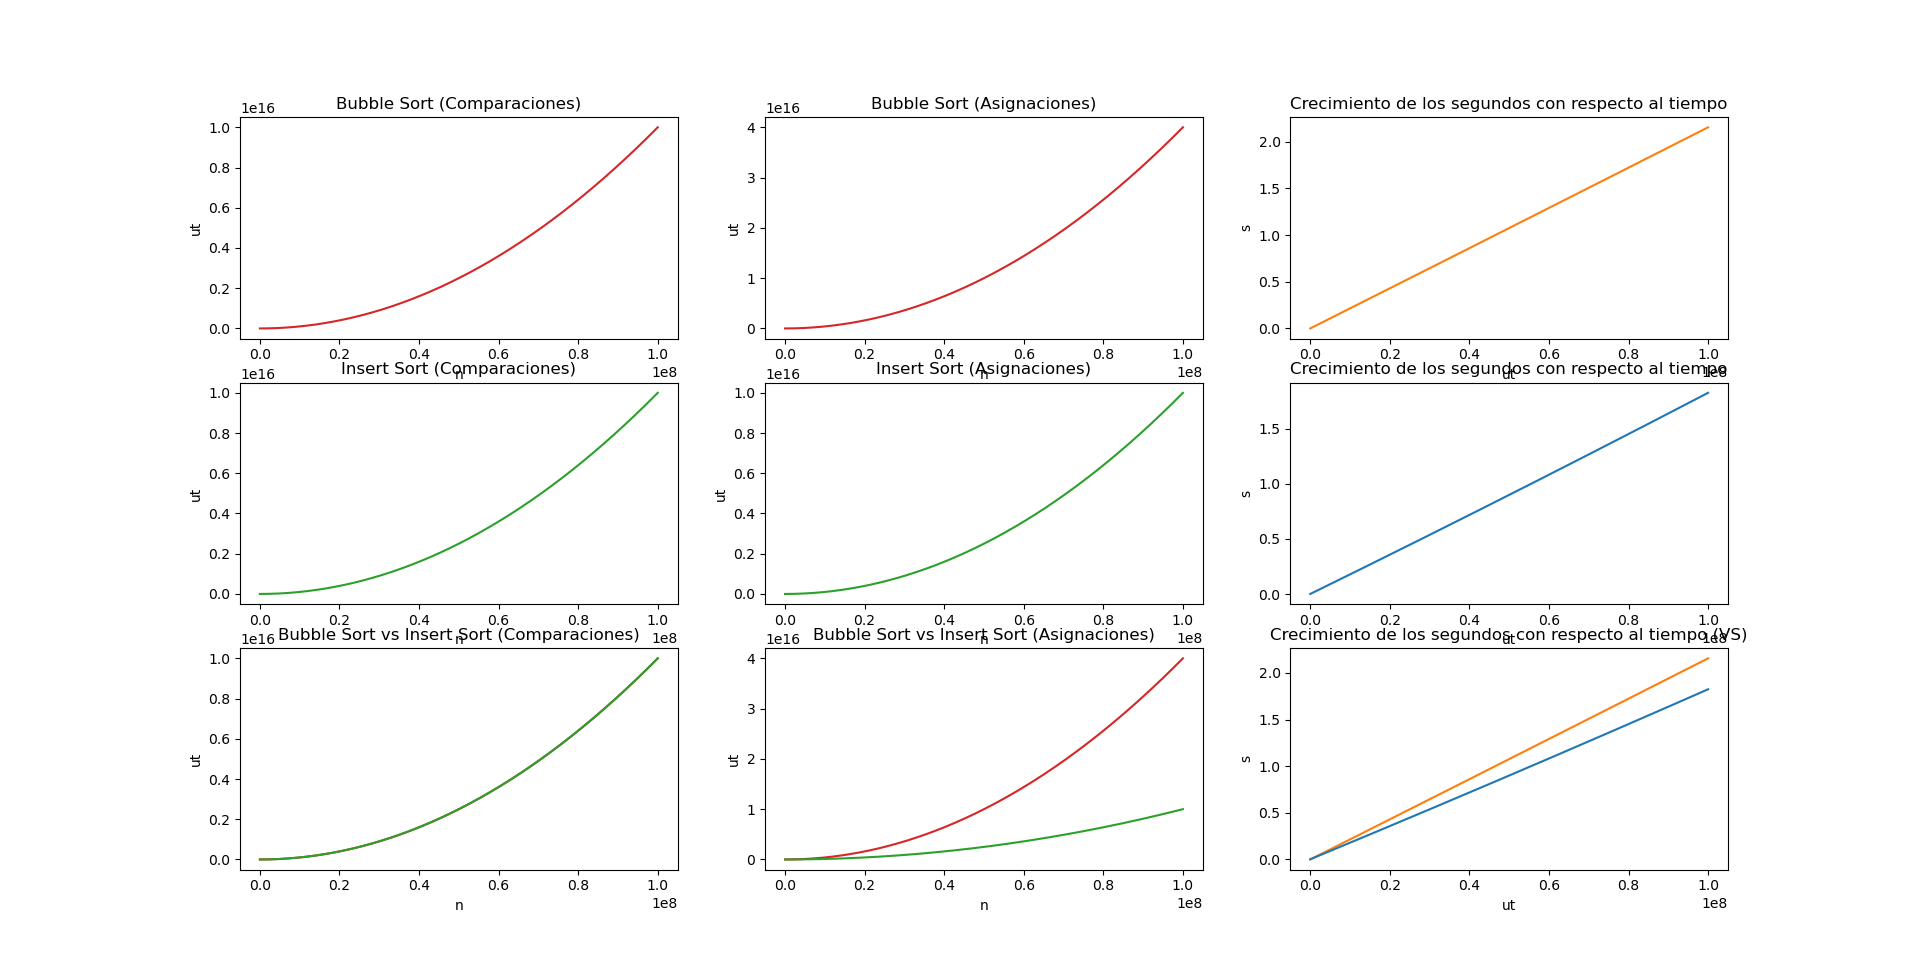
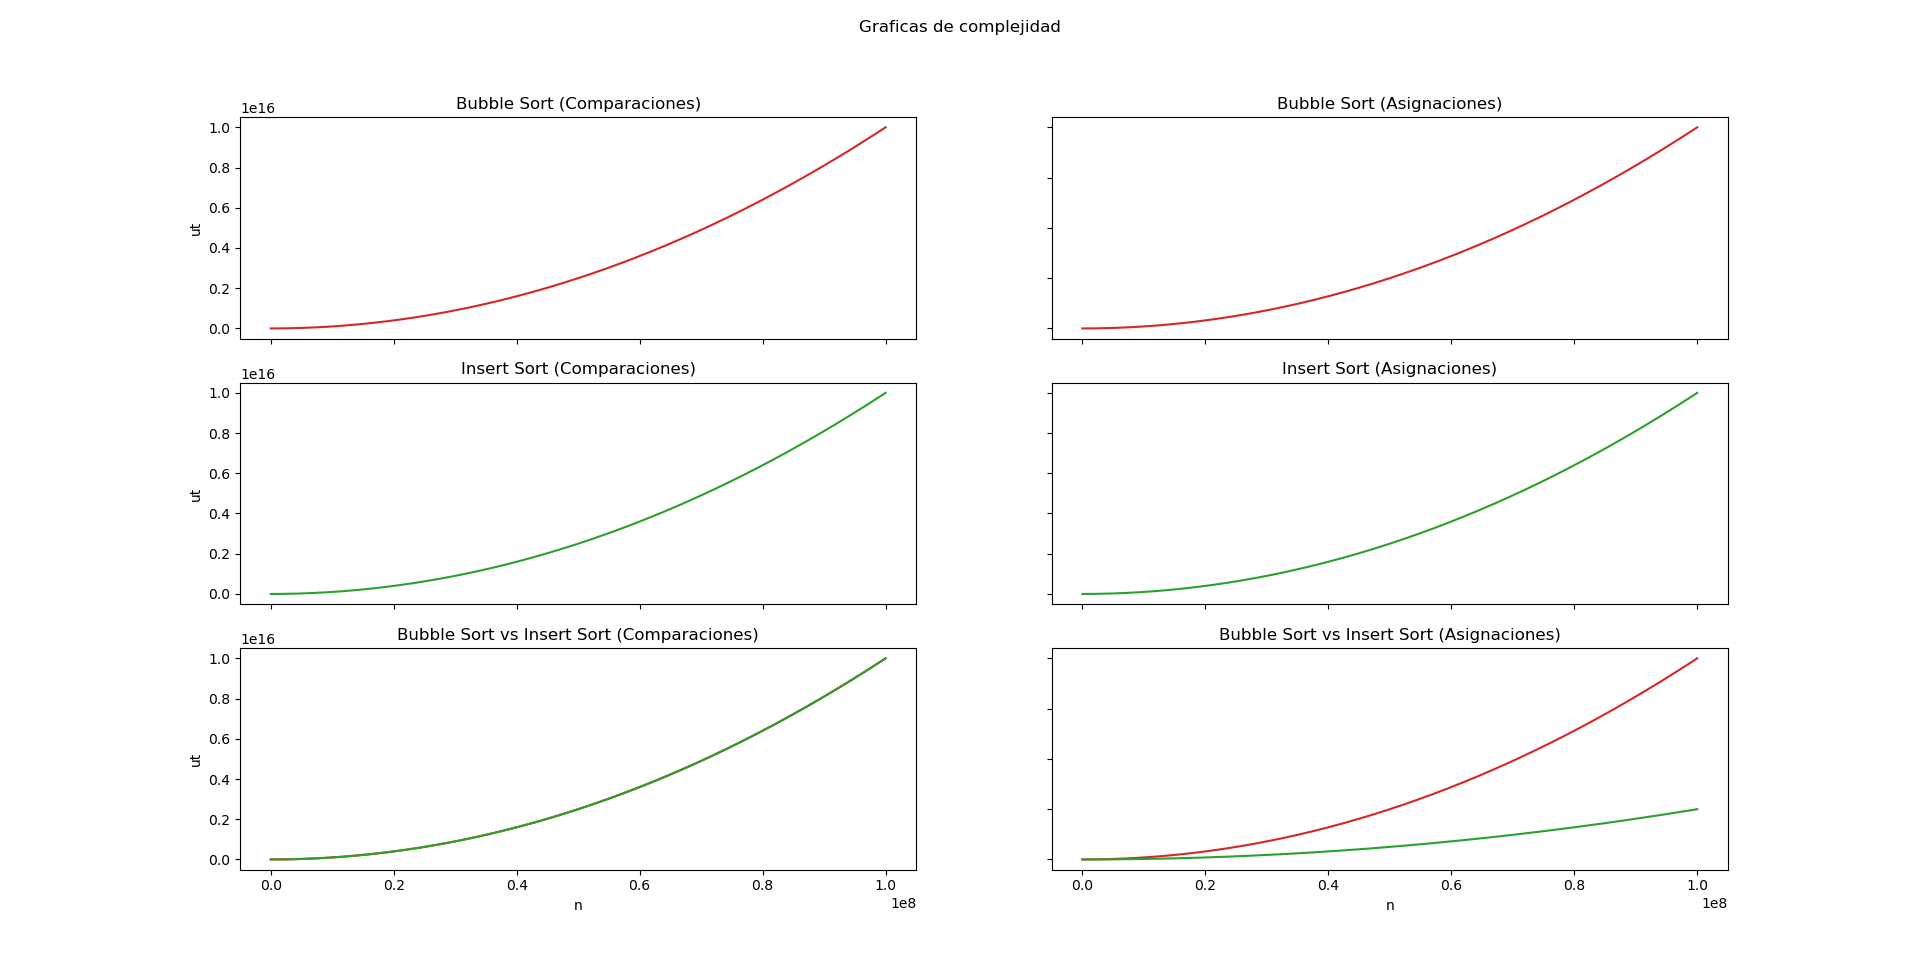
A super upgraded version in comparission to the last one

diff --git a/E1/main.py b/E1/main.py
@@ -5,14 +5,47 @@ import matplotlib.pyplot as plt
 
 from linearAlgebra import MatVector
 
-if __name__ == '__main__':
-    print('\nut: Unidades de Tiempo\n')
-    (w01, w11, w21) = bubbleSortTest.bubbleSortTest()
-    (w02, w12, w22) = insertSortTest.insertSortTest()
+def times():
+    mode = input('\nIngrese el modo de generacion del arreglo:\na: aleatorio\nc: creciente\nd: decreciente\n\n')
 
+    (w01, w11) = bubbleSortTest.bubbleSortTest(mode)
+    (w02, w12) = insertSortTest.insertSortTest(mode)
+
+    xAxis = MatVector(list(range(0, 10 ** 18, 10 ** 12)))
+
+    _, (ax1, ax2, ax3) = plt.subplots(1, 3)
+
+    yAxis02 = xAxis.scale(w11).addScalar(w01)
+    ax1.plot(xAxis.data, yAxis02.data, 'tab:orange')
+    ax1.set_title('Bubble Sort')
+
+    yAxis12 = xAxis.scale(w12).addScalar(w02)
+    ax2.plot(xAxis.data, yAxis12.data, 'tab:blue')
+    ax2.set_title('Insert Sort')
+
+    ax3.plot(xAxis.data, yAxis02.data, 'tab:orange', xAxis.data, yAxis12.data, 'tab:blue')
+    ax3.set_title('Bubble Sort vs Insert Sort')
+
+    ax1.set(xlabel = 'ut', ylabel = 's')
+    ax2.set(xlabel = 'ut')
+    ax3.set(xlabel = 'ut')
+
+    t = 'Crecimiento de los segundos con respecto al tiempo para: '
+    if mode == 'a':
+        t = t + 'Arreglo Aleatorio'
+    elif mode == 'c':
+        t = t + 'Arreglo Creciente'
+    else:
+        t = t + 'Arreglo Decreciente'
+
+    plt.suptitle(t)
+    plt.show()
+
+def complexity():
     xAxis = MatVector(list(range(0, 100000001, 100)))
 
-    fig, axs = plt.subplots(3, 3)
+    _, axs = plt.subplots(3, 2)
+
     yAxis00 = (xAxis ** 2).addScalar(2)
     axs[0][0].plot(xAxis.data, yAxis00.data, 'tab:red')
     axs[0][0].set_title('Bubble Sort (Comparaciones)')
@@ -20,10 +53,6 @@ if __name__ == '__main__':
     yAxis01 = (xAxis ** 2).scale(4).addScalar(4)
     axs[0][1].plot(xAxis.data, yAxis01.data, 'tab:red')
     axs[0][1].set_title('Bubble Sort (Asignaciones)')
-
-    yAxis02 = (xAxis ** 2).scale(w21) + xAxis.scale(w11).addScalar(w01)
-    axs[0][2].plot(xAxis.data, yAxis02.data, 'tab:orange')
-    axs[0][2].set_title('Crecimiento de los segundos con respecto al tiempo')
 
     yAxis10 = (xAxis ** 2) + xAxis.scale(2).addScalar(-2)
     axs[1][0].plot(xAxis.data, yAxis10.data, 'tab:green')
@@ -33,25 +62,27 @@ if __name__ == '__main__':
     axs[1][1].plot(xAxis.data, yAxis11.data, 'tab:green')
     axs[1][1].set_title('Insert Sort (Asignaciones)')
 
-    yAxis12 = (xAxis ** 2).scale(w22) + xAxis.scale(w12).addScalar(w02)
-    axs[1][2].plot(xAxis.data, yAxis12.data, 'tab:blue')
-    axs[1][2].set_title('Crecimiento de los segundos con respecto al tiempo')
-
     axs[2][0].plot(xAxis.data, yAxis00.data, 'tab:red', xAxis.data, yAxis10.data, 'tab:green')
     axs[2][0].set_title('Bubble Sort vs Insert Sort (Comparaciones)')
 
     axs[2][1].plot(xAxis.data, yAxis01.data, 'tab:red', xAxis.data, yAxis11.data, 'tab:green')
     axs[2][1].set_title('Bubble Sort vs Insert Sort (Asignaciones)')
 
-    axs[2][2].plot(xAxis.data, yAxis02.data, 'tab:orange', xAxis.data, yAxis12.data, 'tab:blue')
-    axs[2][2].set_title('Crecimiento de los segundos con respecto al tiempo (VS)')
-
-    i = 1
     for ax in axs.flat:
-        if i % 3 == 0:
-            ax.set(xlabel = 'ut', ylabel = 's')
-        else:
-            ax.set(xlabel = 'n', ylabel = 'ut')
-        i = i + 1
+        ax.set(xlabel = 'n', ylabel = 'ut')
+    for ax in axs.flat:
+        ax.label_outer()
 
+    plt.suptitle('Graficas de complejidad')
     plt.show()
+
+def main():
+    print('\nut: Unidades de Tiempo\n')
+    action = bool(int(input('Ingrese los graficos que mostrara:\n0: graficas de complejidad\n1: analisis de tiempos\n\n')))
+    if action:
+        times()
+    else:
+        complexity()
+
+if __name__ == '__main__':
+    main()

diff --git a/E1/bubbleSortTest.py b/E1/bubbleSortTest.py
@@ -3,7 +3,7 @@ import arrayGen
 import sort
 import linearAlgebra
 
-def bubbleSortTest():
+def bubbleSortTest(mode):
     # ------------------------------------------------------------------------------------------
     X = [] # Eje de Abscisas para la recta de regresion para predecir los tiempos
     Y = [] # Eje de Ordenadas para la recta de regresion para predecir los tiempos
@@ -12,14 +12,14 @@ def bubbleSortTest():
     # ------------------------------------------------------------------------------------------
     # Bubble Sort
     # ------------------------------------------------------------------------------------------
-    print('Insert Sort')
+    print('Bubble Sort')
     for i in [5, 10, 50, 100, 500, 1000, 5000, 10000]:
         start_time = time.time()
 
-        A = arrayGen.genArray(i)
+        A = arrayGen.genArray(i, mode)
         (comp, asig, objc, malloc) = sort.bubbleSort(A)
 
-        end_time  = time.time() - start_time
+        end_time = time.time() - start_time
 
         compUT   = comp << 1     # comp << 1 = comp * 2 (Bitwise)
         asigUT   = asig << 3     # asig << 3 = comp * 8 (Bitwise)
@@ -40,33 +40,27 @@ def bubbleSortTest():
     # ------------------------------------------------------------------------------------------
 
     # ------------------------------------------------------------------------------------------
-    # Prediccion de tiempos mediante recta de regresion cuadratica
+    # Prediccion de tiempos mediante recta de regresion lienal
     # ------------------------------------------------------------------------------------------
     X2 = linearAlgebra.powScaleVector(X, 2)
-    X3 = linearAlgebra.powScaleVector(X, 3)
-    X4 = linearAlgebra.powScaleVector(X, 4)
     XY = linearAlgebra.vecProd(X, Y)
-    X2Y = linearAlgebra.vecProd(X2, Y)
     sumX  = sum(X)
     sumY  = sum(Y)
     sumX2 = sum(X2)
-    sumX3 = sum(X3)
-    sumX4 = sum(X4)
     sumXY = sum(XY)
-    sumX2Y = sum(X2Y)
     n = len(X)
 
-    M = [[n, sumX, sumX2], [sumX, sumX2, sumX3], [sumX2, sumX3, sumX4]]
-    B = [sumY, sumXY, sumX2Y]
+    M = [[n, sumX], [sumX, sumX2]]
+    B = [sumY, sumXY]
 
     V  = linearAlgebra.gauss(M, B)
-    w0, w1, w2 = V[0], V[1], V[2]
+    w0, w1 = V[0], V[1]
     # ------------------------------------------------------------------------------------------
 
     # ------------------------------------------------------------------------------------------
     print('100000, 1000000, ... son muy costosos en la ejecución de este algoritmo')
     print("Para ello mediante el metodo de minimos cuadrados obtuvimos 3 parametros")
-    print("Estos 3 parametros dan forma a la ecuacion cuadratica de tiempos del tipo:")
+    print("Estos 3 parametros dan forma a la ecuacion lineal de tiempos del tipo:")
     print("w0 + w1 * ut + w2 * ut^2\n")
     for n in [100000, 1000000, 10000000, 100000000]:
         comp     = n**2 + 2 * n - 2
@@ -86,9 +80,9 @@ def bubbleSortTest():
         print(f'\tEspacio de memoria alojado:\t{malloc} = {mallocUT}ut')
         print(f'\tTotal:\t\t\t\t\t\t{totalUT}ut') # Total
 
-        print(f'--- {w0 + w1 * totalUT + w2 * totalUT**2} seconds ---\n')
+        print(f'--- {w0 + w1 * totalUT} seconds ---\n')
 
     print("Gracias a ello pudimos predecir todas las ultimas medidas")
 
-    return (w0, w1, w2)
+    return (w0, w1)
     # ------------------------------------------------------------------------------------------

diff --git a/E1/insertSortTest.py b/E1/insertSortTest.py
@@ -3,7 +3,7 @@ import arrayGen
 import sort
 import linearAlgebra
 
-def insertSortTest():
+def insertSortTest(mode):
     # ------------------------------------------------------------------------------------------
     X = [] # Eje de Abscisas para la recta de regresion para predecir los tiempos
     Y = [] # Eje de Ordenadas para la recta de regresion para predecir los tiempos
@@ -16,10 +16,10 @@ def insertSortTest():
     for i in [5, 10, 50, 100, 500, 1000, 5000, 10000]:
         start_time = time.time()
 
-        A = arrayGen.genArray(i)
+        A = arrayGen.genArray(i, mode)
         (comp, asig, objc, malloc) = sort.insertSort(A)
 
-        end_time  = time.time() - start_time
+        end_time = time.time() - start_time
 
         compUT   = comp << 1     # comp << 1 = comp * 2 (Bitwise)
         asigUT   = asig << 3     # asig << 3 = comp * 8 (Bitwise)
@@ -40,33 +40,27 @@ def insertSortTest():
     # ------------------------------------------------------------------------------------------
 
     # ------------------------------------------------------------------------------------------
-    # Prediccion de tiempos mediante recta de regresion cuadratica
+    # Prediccion de tiempos mediante recta de regresion lineal
     # ------------------------------------------------------------------------------------------
     X2 = linearAlgebra.powScaleVector(X, 2)
-    X3 = linearAlgebra.powScaleVector(X, 3)
-    X4 = linearAlgebra.powScaleVector(X, 4)
     XY = linearAlgebra.vecProd(X, Y)
-    X2Y = linearAlgebra.vecProd(X2, Y)
     sumX  = sum(X)
     sumY  = sum(Y)
     sumX2 = sum(X2)
-    sumX3 = sum(X3)
-    sumX4 = sum(X4)
     sumXY = sum(XY)
-    sumX2Y = sum(X2Y)
     n = len(X)
 
-    M = [[n, sumX, sumX2], [sumX, sumX2, sumX3], [sumX2, sumX3, sumX4]]
-    B = [sumY, sumXY, sumX2Y]
+    M = [[n, sumX], [sumX, sumX2]]
+    B = [sumY, sumXY]
 
     V  = linearAlgebra.gauss(M, B)
-    w0, w1, w2 = V[0], V[1], V[2]
+    w0, w1 = V[0], V[1]
     # ------------------------------------------------------------------------------------------
 
     # ------------------------------------------------------------------------------------------
     print('100000, 1000000, ... son muy costosos en la ejecución de este algoritmo')
     print("Para ello mediante el metodo de minimos cuadrados obtuvimos 3 parametros")
-    print("Estos 3 parametros dan forma a la ecuacion cuadratica de tiempos del tipo:")
+    print("Estos 3 parametros dan forma a la ecuacion lineal de tiempos del tipo:")
     print("w0 + w1 * ut + w2 * ut^2\n")
     for n in [100000, 1000000, 10000000, 100000000]:
         comp     = n**2 + 2 * n - 2
@@ -86,9 +80,9 @@ def insertSortTest():
         print(f'\tEspacio de memoria alojado:\t{malloc} = {mallocUT}ut')
         print(f'\tTotal:\t\t\t\t\t\t{totalUT}ut') # Total
 
-        print(f'--- {w0 + w1 * totalUT + w2 * totalUT**2} seconds ---\n')
+        print(f'--- {w0 + w1 * totalUT} seconds ---\n')
 
     print("Gracias a ello pudimos predecir todas las ultimas medidas")
 
-    return (w0, w1, w2)
+    return (w0, w1)
     # ------------------------------------------------------------------------------------------

diff --git a/E1/arrayGen.py b/E1/arrayGen.py
@@ -5,13 +5,17 @@ import random
 # Asignaciones:  2n + 1 : O(n)
 # Instancias:    1      : O(1)
 # Alojamiento:   n      : O(n)
-def genArray(n, a = 0, b = 100):
+def genArray(n, mode, a = 0, b = 100):
     # -----------------------------------------------------------------------------------------------
     comp = 0
     asig = 0
     objc = 0
     malloc = 0
     # -----------------------------------------------------------------------------------------------
+    if mode == 'c':
+        return list(range(n))
+    elif mode == 'd':
+        return list(range(n - 1, -1, -1))
 
     A = [None] * n
     # -----------------------------------------------------------------------------------------------
